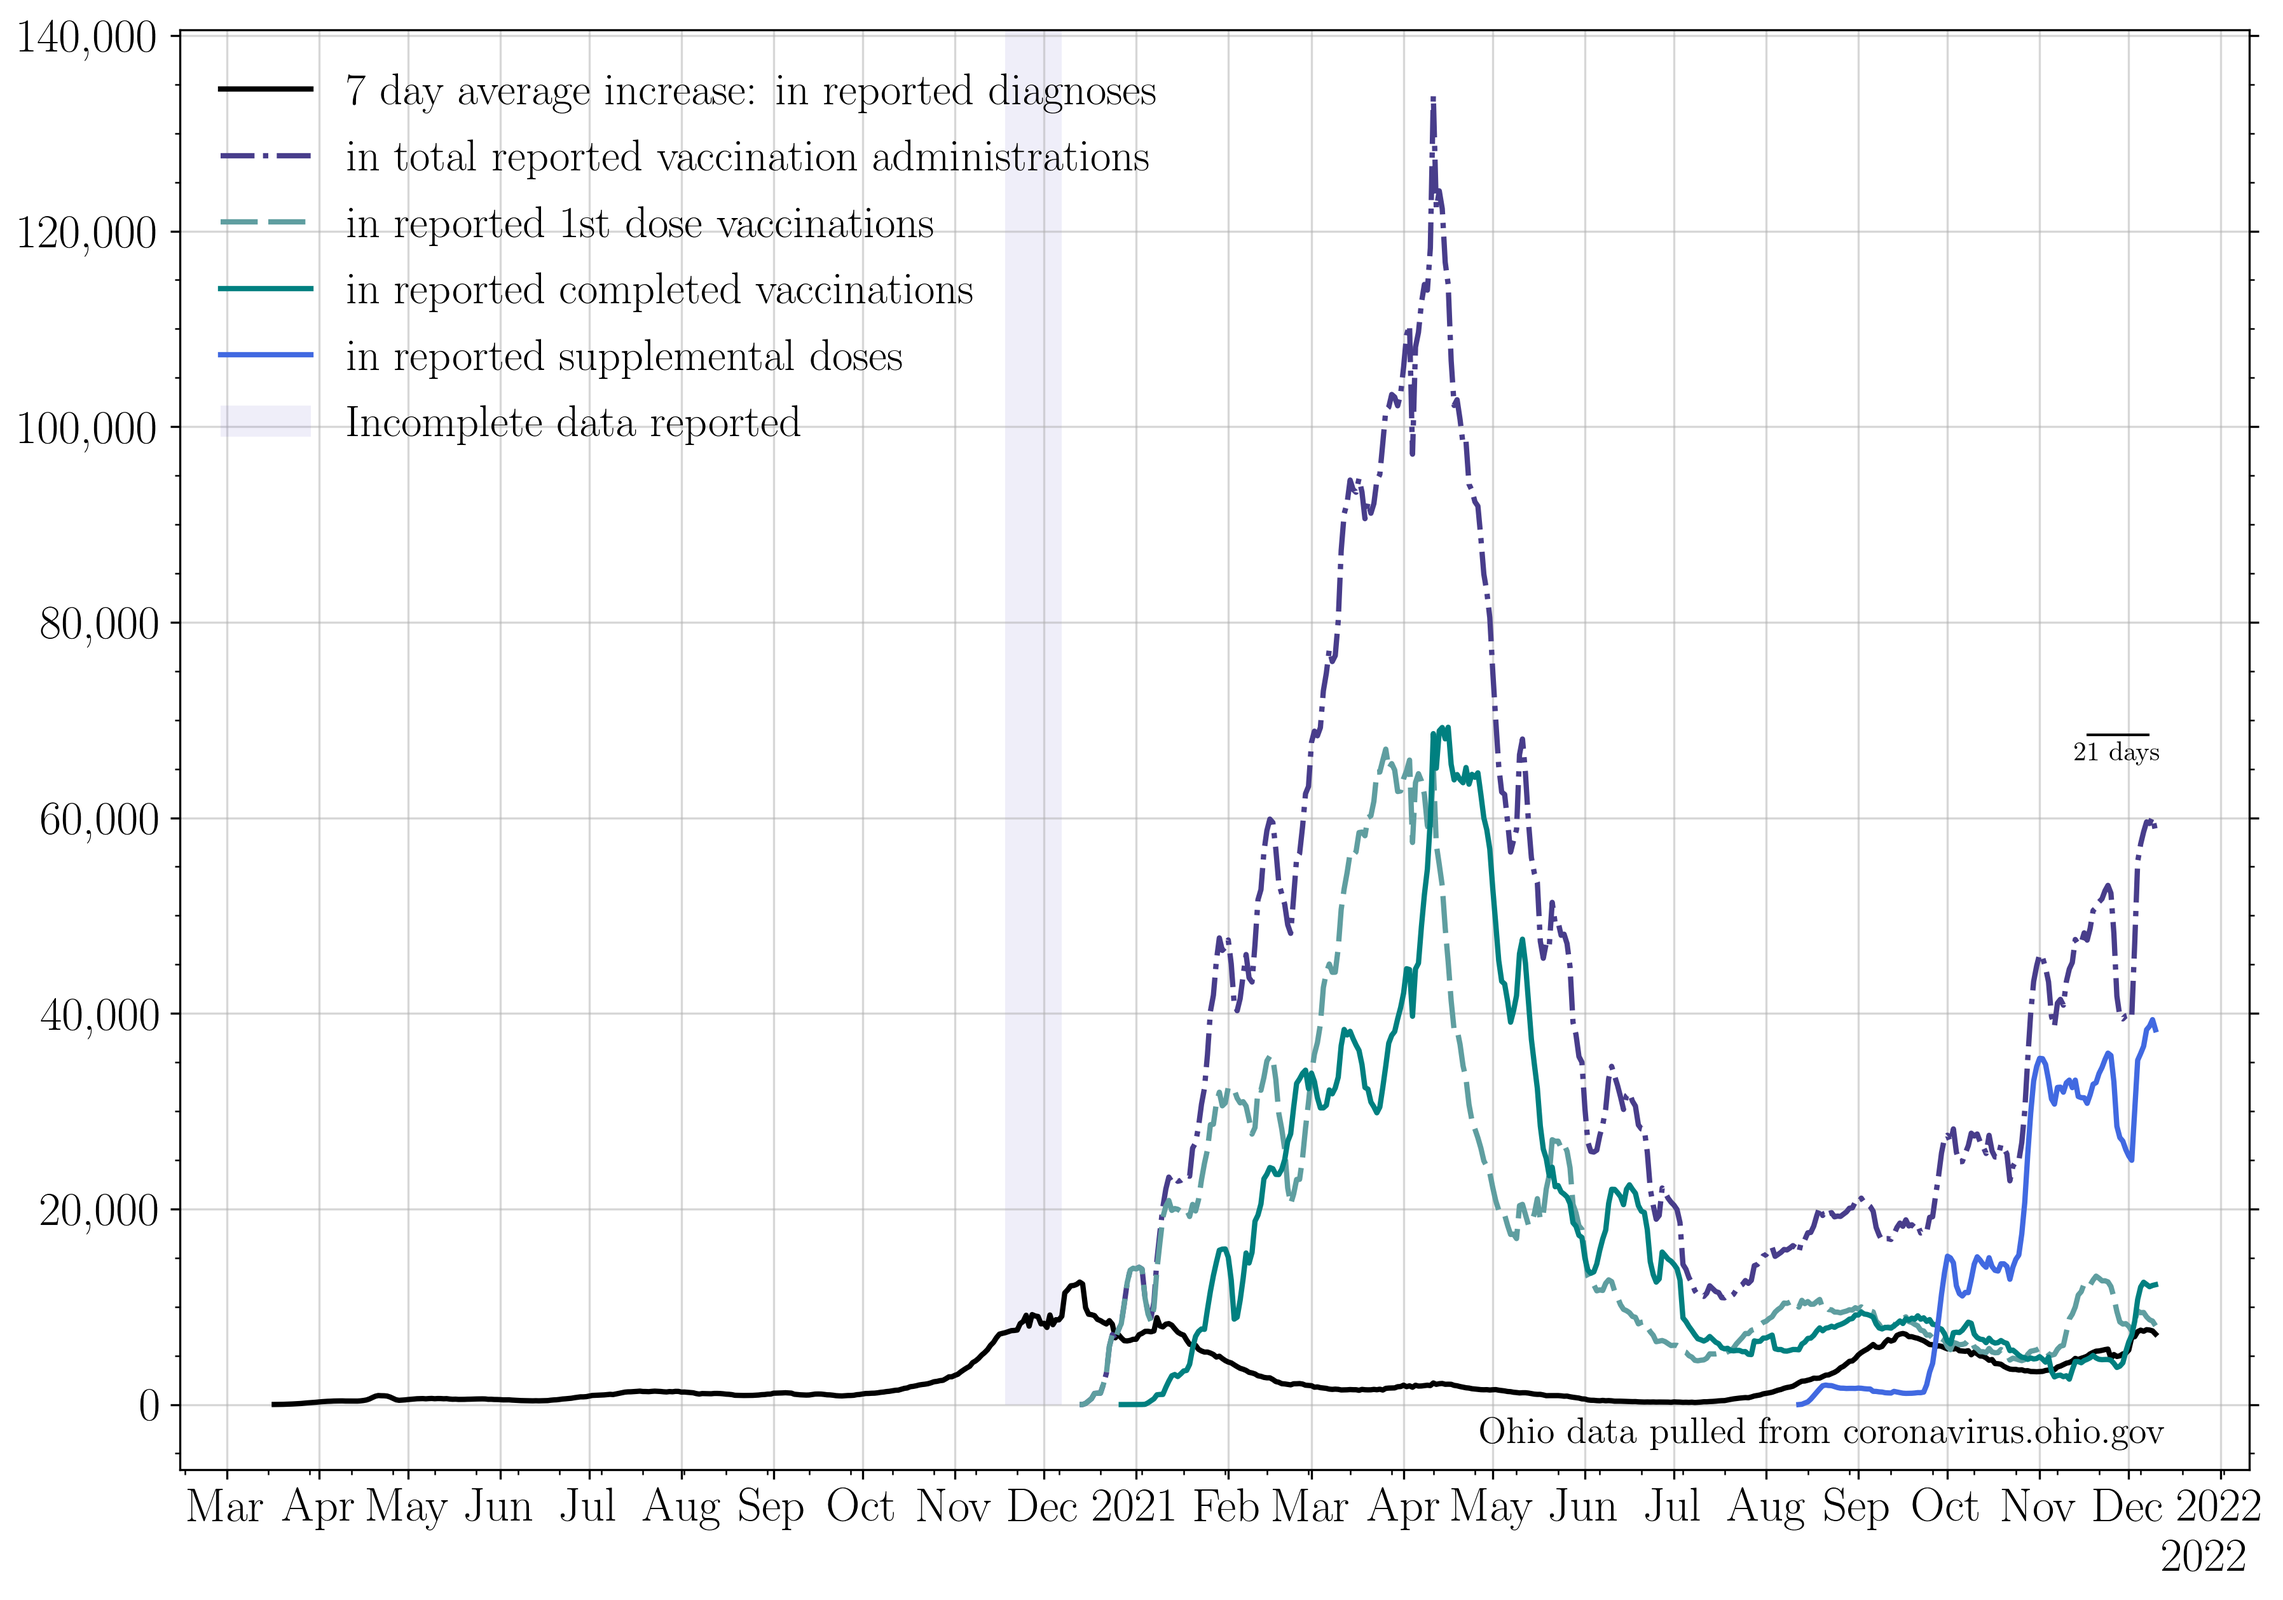
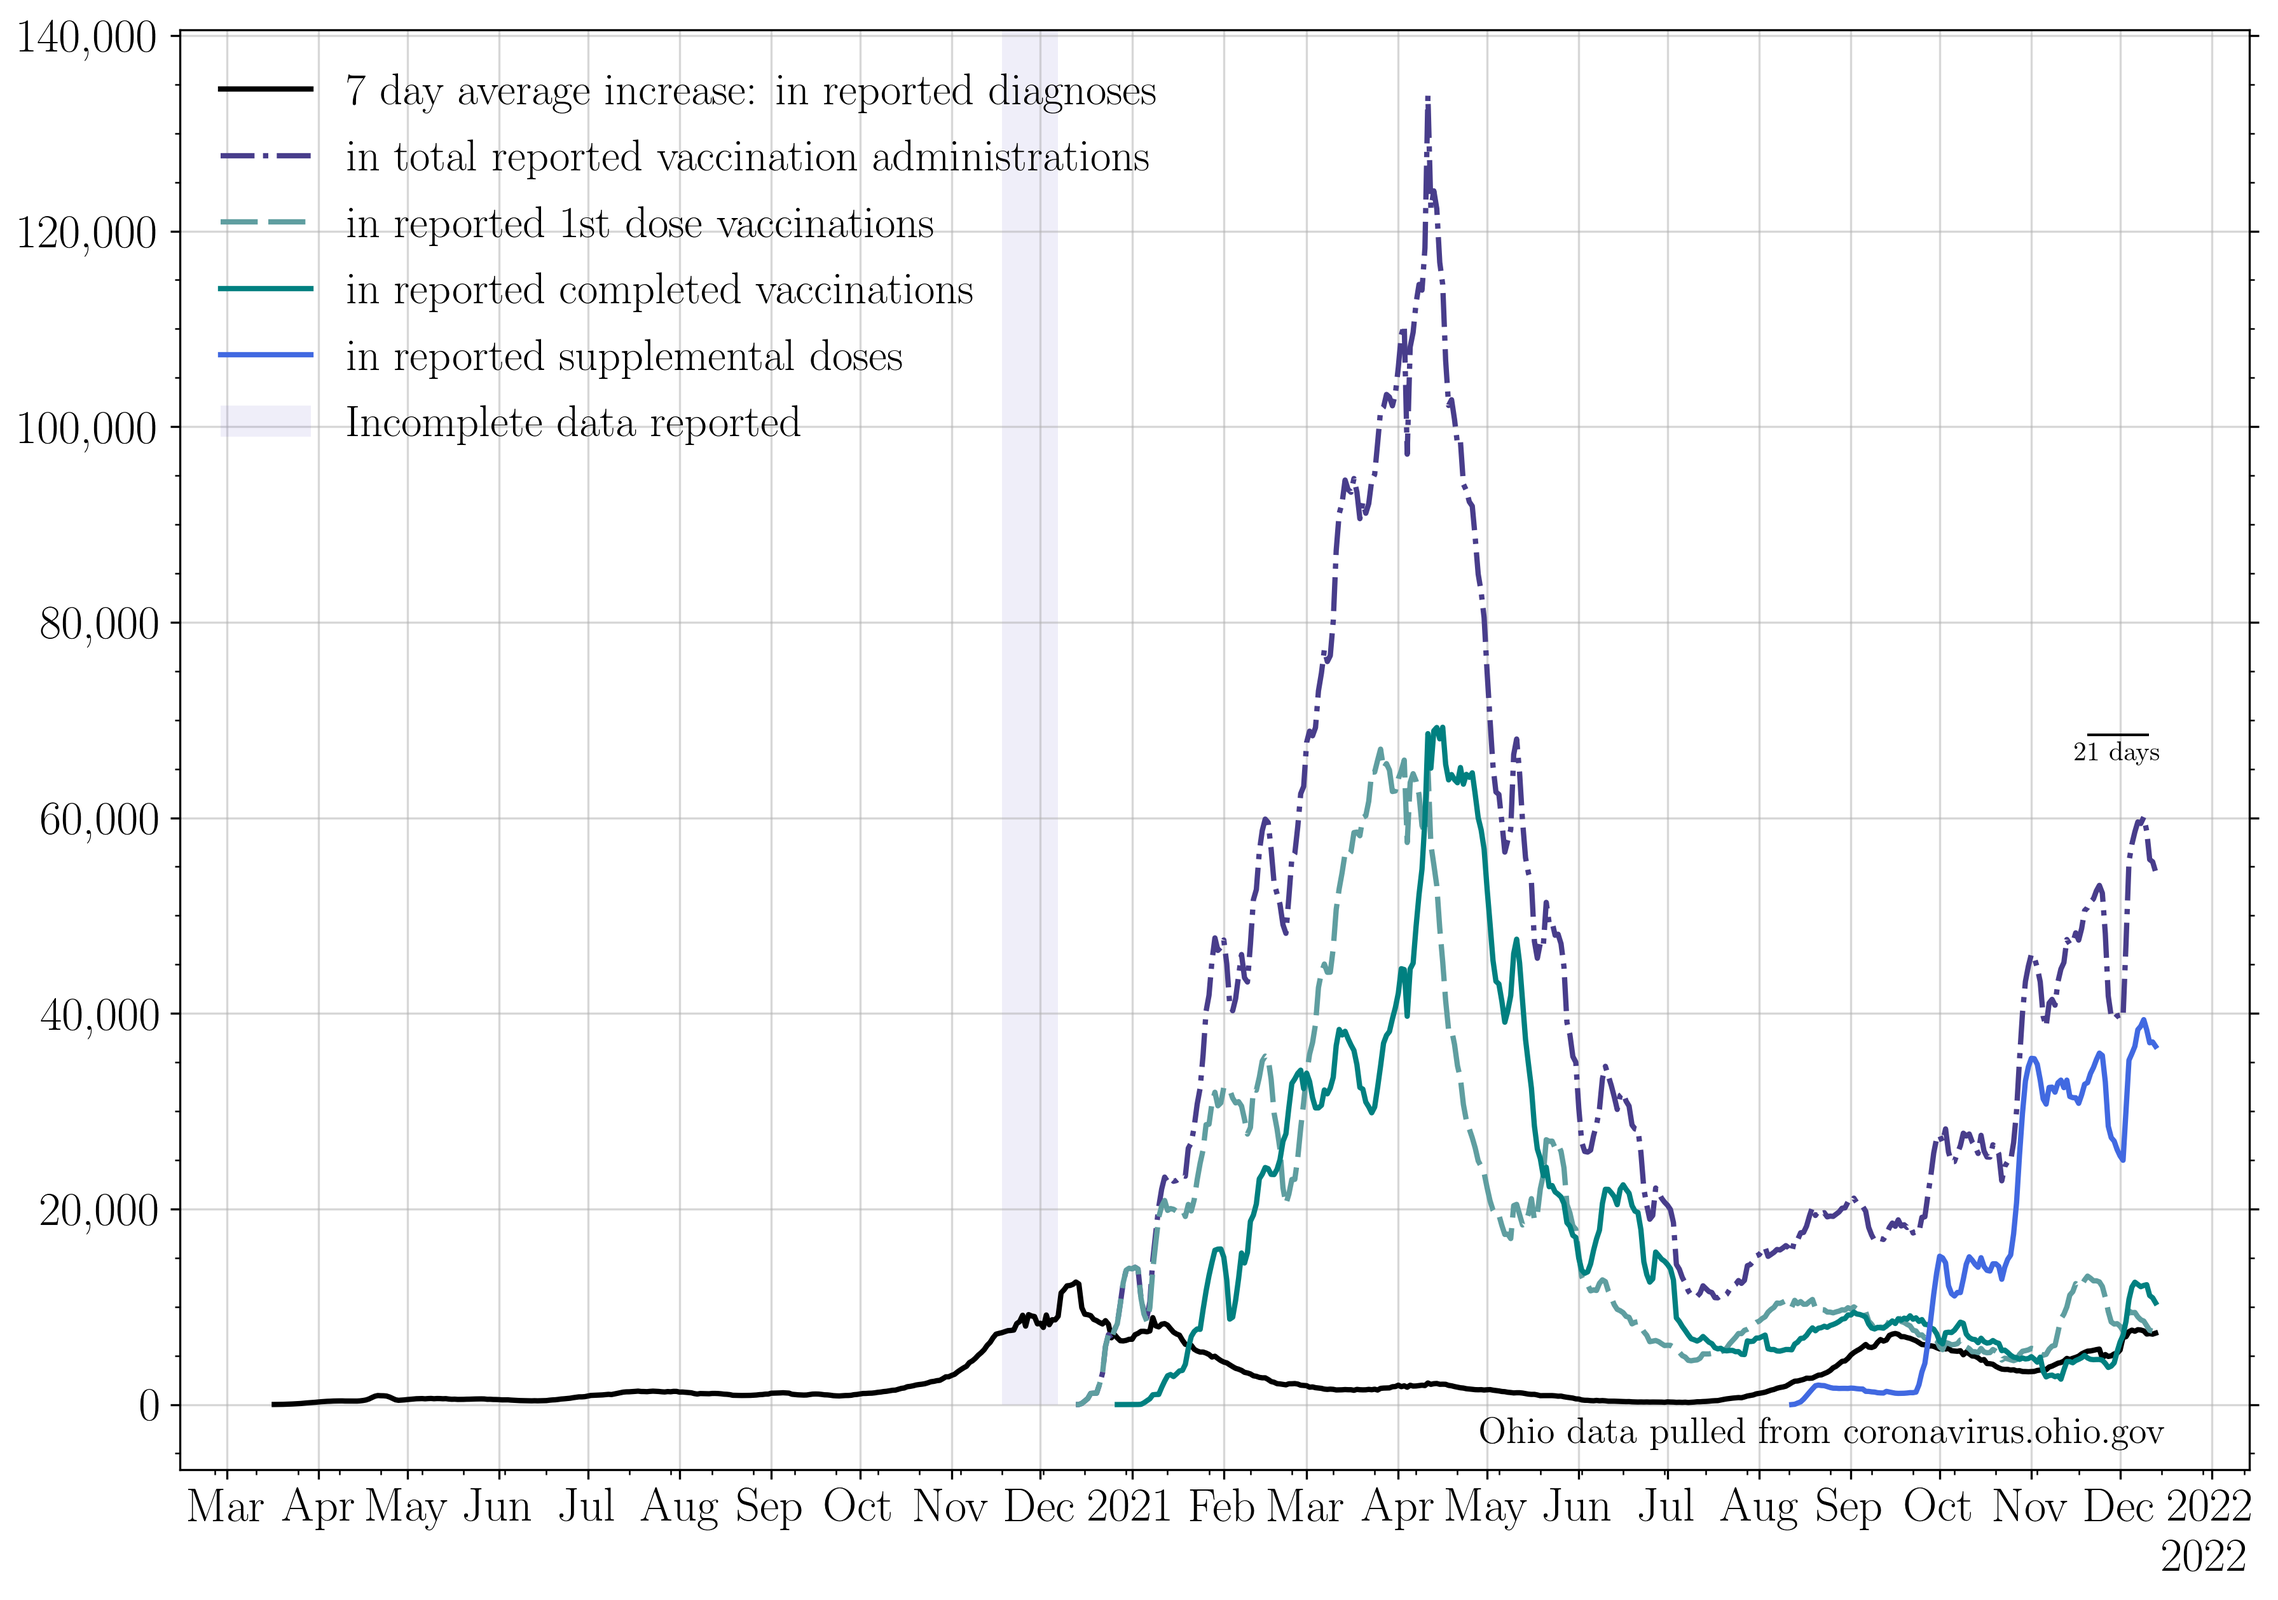
Dec 11, 12, 13 index file update

diff --git a/index.md b/index.md
@@ -1,6 +1,6 @@
 ## Plotting publicly available COVID data for the state of Ohio. 
 
-Most recent data: Dec 10 2021. 
+Most recent data: Dec 13 2021. 
 
 As of March 02 2021, death data is only reported 2x/week, and includes only confirmed cases. March 02 2021 cumulative death counts have dropped due to the missing "probable" cases.
 
@@ -13,33 +13,33 @@ No data was reported on Nov 26th 2020 (Thanksgiving), Dec 25th 2020 (Christmas),
 The 7 day averages for the daily increase in cases, hospitalizations, ICU admissions, and deaths. If no new cases were reported, these lines would go to zero.
 ![](7dayaverage_cases.png)
 
->The average increase in cases for the last seven days is: 7213.0
+>The average increase in cases for the last seven days is: 7301.0
 >
->The last time cases per day were this high was Dec 09 2021: 1 day ago.
+>The last time cases per day were this high was Dec 09 2021: 4 days ago.
 >
 >The seven day average then was: 7531 cases.
 
 >
->The last time cases per day was lower than this was Dec 03 2021: 7 days ago.
+>The last time cases per day was lower than this was Dec 12 2021: 1 day ago.
 >
->The seven day average then was: 6943 cases.
+>The seven day average then was: 7201 cases.
 >
 >The lowest 7 day average reported cases per day in the last three weeks was on Nov 25 2021.
 >
->This was 15 days ago. The average was 4726 cases per day.
+>This was 18 days ago. The average was 4726 cases per day.
 >
->The current 7 day average case rate is an increase of 52.6 percent with respect to that minimum.
+>The current 7 day average case rate is an increase of 54.5 percent with respect to that minimum.
 
 The 7 day averages for the daily increase in hospitalizations, ICU admissions, and deaths. If no new events were reported, these lines would go to zero.
 ![](7dayaverage_hospital.png)
 
->The average increase in hospitalizations per day for the last seven days is: 318
+>The average increase in hospitalizations per day for the last seven days is: 345
 >
 >The lowest 7 day average reported hospitalizations per day in the last three weeks was on Nov 27 2021.
 >
->This was 13 days ago. The average was 218 hospitalizations per day.
+>This was 16 days ago. The average was 218 hospitalizations per day.
 >
->The current 7 day average hospitalization rate is an increase of 45.9 percent with respect to then.
+>The current 7 day average hospitalization rate is an increase of 58.3 percent with respect to then.
 
 The 7 day average increase in cases, compared to the rate of first round vaccinations, second round vaccinations, and total number of vaccinations dispensed:
 ![](DailyVaccinationsCases.png)
@@ -48,15 +48,15 @@ The 7 day average increase in cases, compared to the rate of first round vaccina
 The raw daily increase in cases, hospitalizations, ICU admissions, and deaths. The 7 day average is shown faintly behind the raw data. If no new cases were reported, this line would go to zero.
 ![](DailyCases.png)
 
->The increase in cases from yesterday to today: 7359.0 
+>The increase in cases from yesterday to today: 5618.0 
 >
->The last time cases per day were this high was Dec 09 2021: 1 day ago. 
+>The last time cases per day were this high was Dec 11 2021: 2 days ago. 
 >
->The case rate then was 8500 cases.
+>The case rate then was 8072 cases.
 >
->The last time cases per day were lower than this was Dec 06 2021: 4 days ago. 
+>The last time cases per day were lower than this was Dec 12 2021: 1 day ago. 
 >
->The case rate then was 4922 cases.
+>The case rate then was 4972 cases.
 
 The raw daily increase in hospitalizations, ICU admissions, and deaths. The 7 day average is shown faintly behind the raw data. If no new events were reported, these lines would go to zero.
 ![](DailyHospitalizations.png)
@@ -70,15 +70,15 @@ The percent of each day's new reported tests which represent that day's new repo
 
 >The lowest 7 day average reported positive test fraction per day in the last three weeks was on Nov 26 2021.
 >
->This was 14 days ago. The average was 16.3 percent positive. 
+>This was 17 days ago. The average was 16.3 percent positive. 
 >
->The current average positive test rate is 19.8 percent, a change of 21.5 percent with respect to then. 
+>The current average positive test rate is 20.0 percent, a change of 22.7 percent with respect to then. 
 
 ### Cumulative plots
 The cumulative number of cases, hospitalizations, ICU admissions, and deaths. If no new cases were reported, these lines would be horizontal.
 ![](Cases.png)
 
->The current total number of cases is equivalent to 3 people out of every 20 people in the state of Ohio having tested positive for COVID-19.
+>The current total number of cases is equivalent to 2 people out of every 13 people in the state of Ohio having tested positive for COVID-19.
 
 The cumulative number of hospitalizations, ICU admissions, and deaths. If no new events were reported, these lines would be horizontal.
 ![](Hospitalizations.png)
@@ -86,14 +86,14 @@ The cumulative number of first and second round vaccinations. If no new events w
 ![](Vaccinations.png)
 
 >The current total number of first round vaccinations represents to 10 people out of every 17 in the state of Ohio having begun their vaccination sequence, and 9 people out of every 13 people over age 18.
- >This is 58.61 percent of the population of Ohio, and 69.08 percent of the 18+ population.
+ >This is 58.75 percent of the population of Ohio, and 69.2 percent of the 18+ population.
 
->The current total number of second round vaccinations represents 7 people out of every 13 in the state of Ohio having completed their vaccination sequence, and 9 people out of every 14 people over age 18. 
->This is 53.87 percent of the population of Ohio, and 64.3 percent of the 18+ population.
+>The current total number of second round vaccinations represents 20 people out of every 37 in the state of Ohio having completed their vaccination sequence, and 9 people out of every 14 people over age 18. 
+>This is 54.1 percent of the population of Ohio, and 64.39 percent of the 18+ population.
 
->Currently fully vaccinated (2 weeks past a second dose) are: 6,152,456 people, who received their second round vaccination on or before Nov 26 2021.
->This represents 52.59 percent of the population of Ohio, and 63.55 percent of adults over 18.
+>Currently fully vaccinated (2 weeks past a second dose) are: 6,164,204 people, who received their second round vaccination on or before Nov 29 2021.
+>This represents 52.69 percent of the population of Ohio, and 63.63 percent of adults over 18.
 
->Currently maximally protected are: 3,272,591 people, who received their second round vaccination on or before Nov 26 2021, and either were vaccinated less than six months ago, or have had a booster.
->This represents 27.97 percent of the population of Ohio, and 35.91 percent of adults over 18.
+>Currently maximally protected are: 3,361,722 people, who received their second round vaccination on or before Nov 29 2021, and either were vaccinated less than six months ago, or have had a booster.
+>This represents 28.73 percent of the population of Ohio, and 36.88 percent of adults over 18.
 
